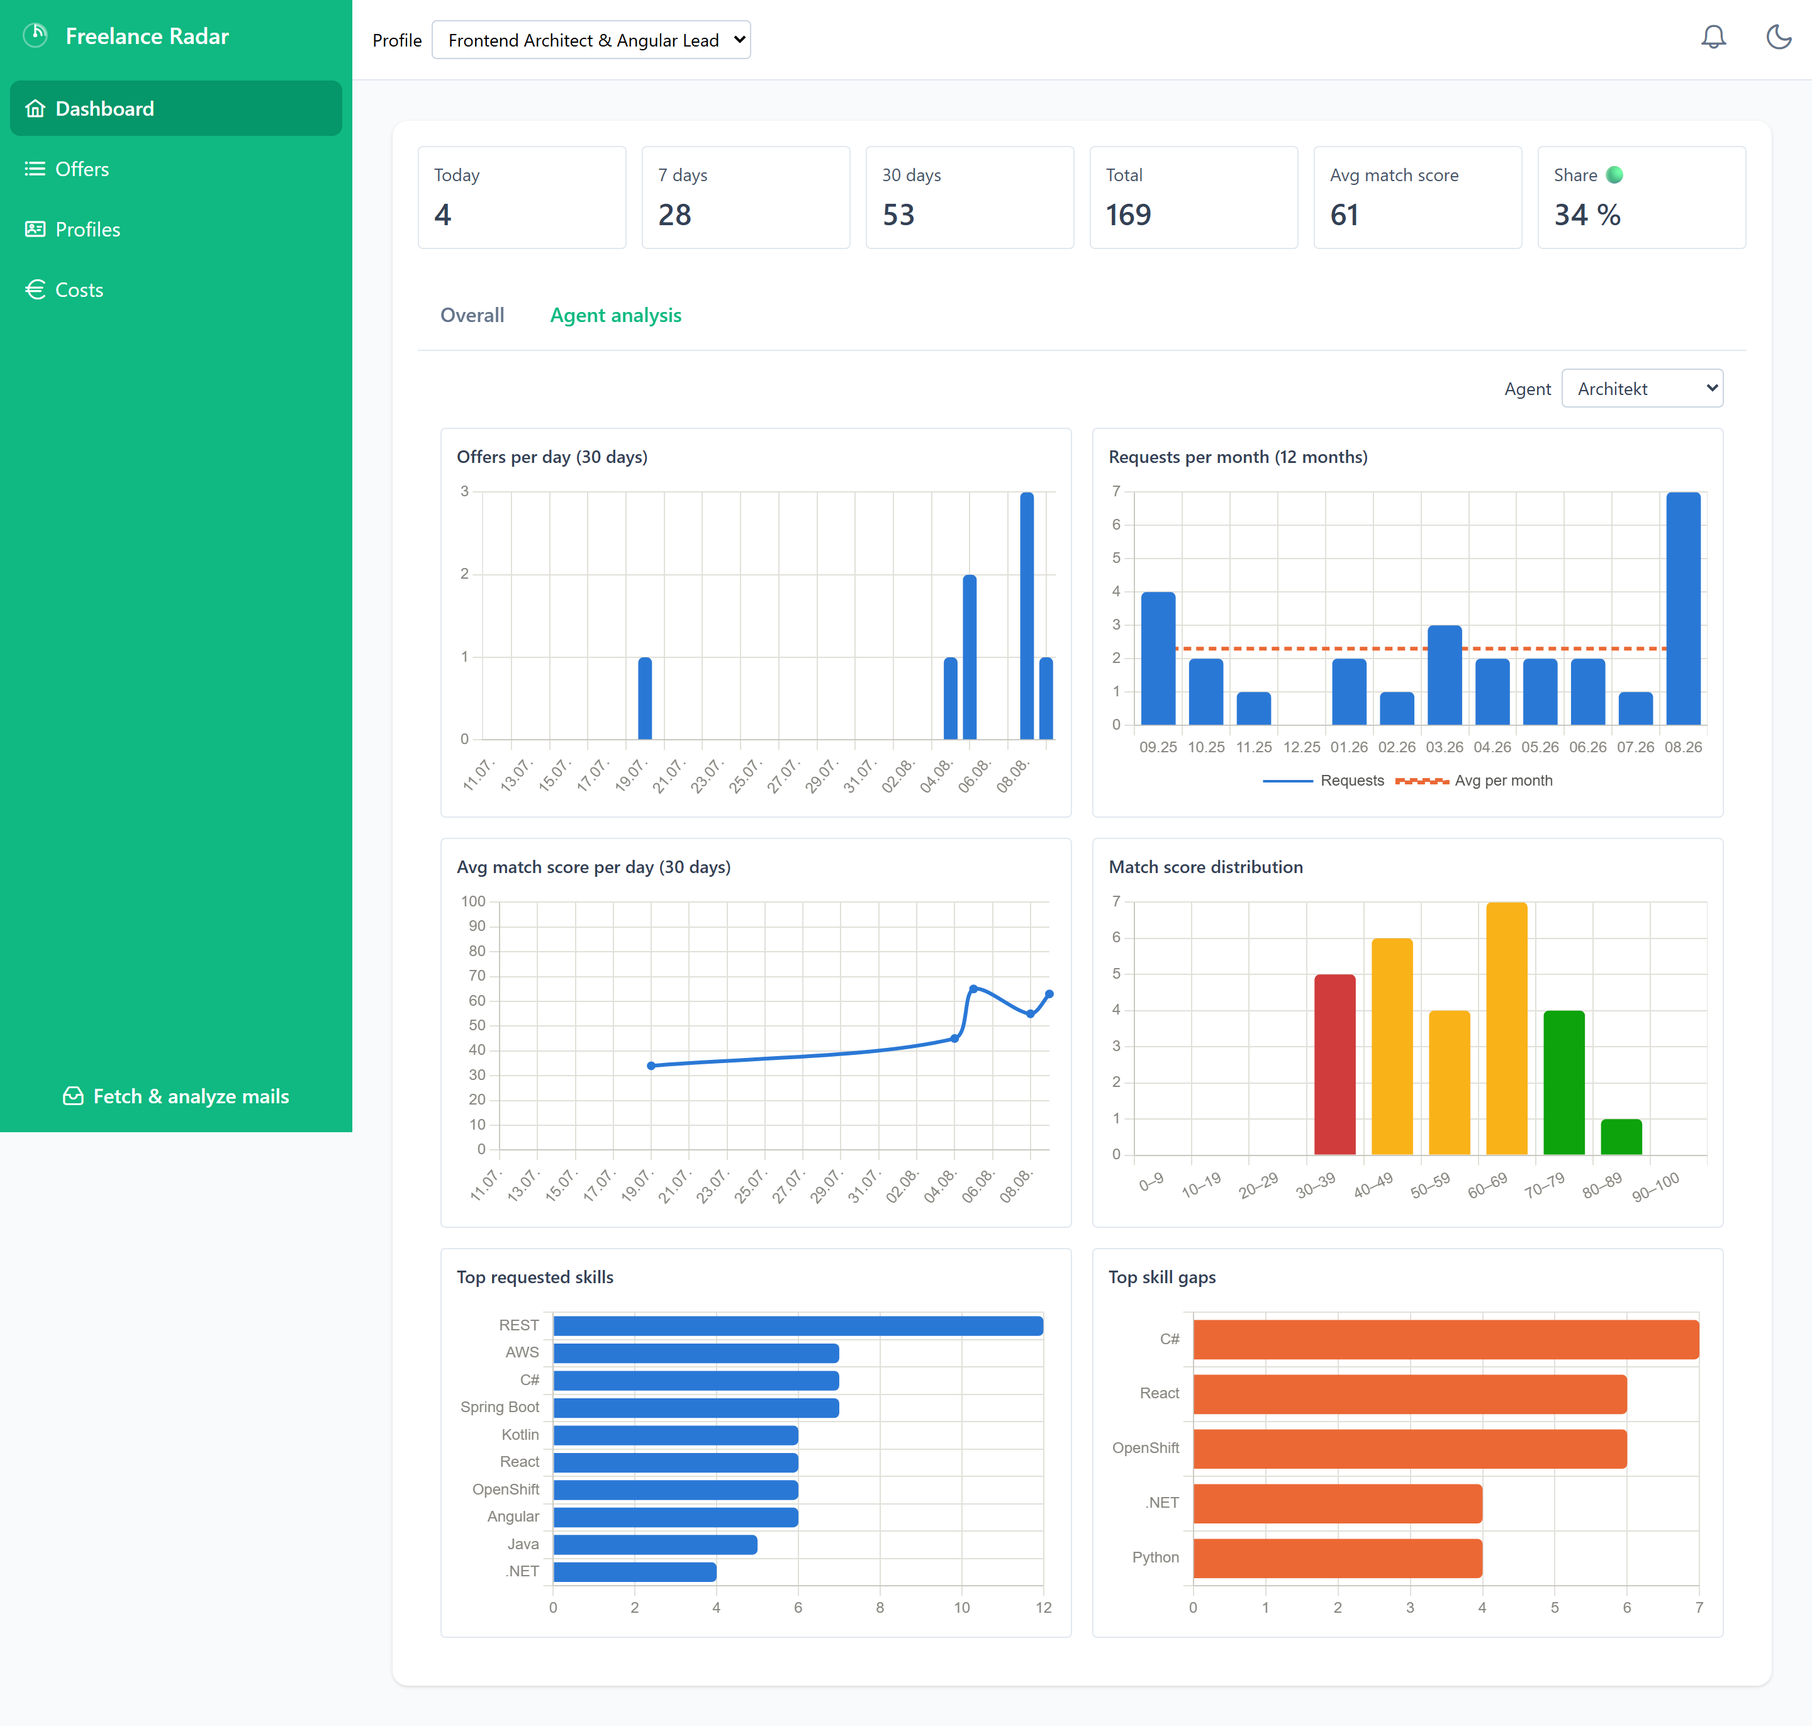
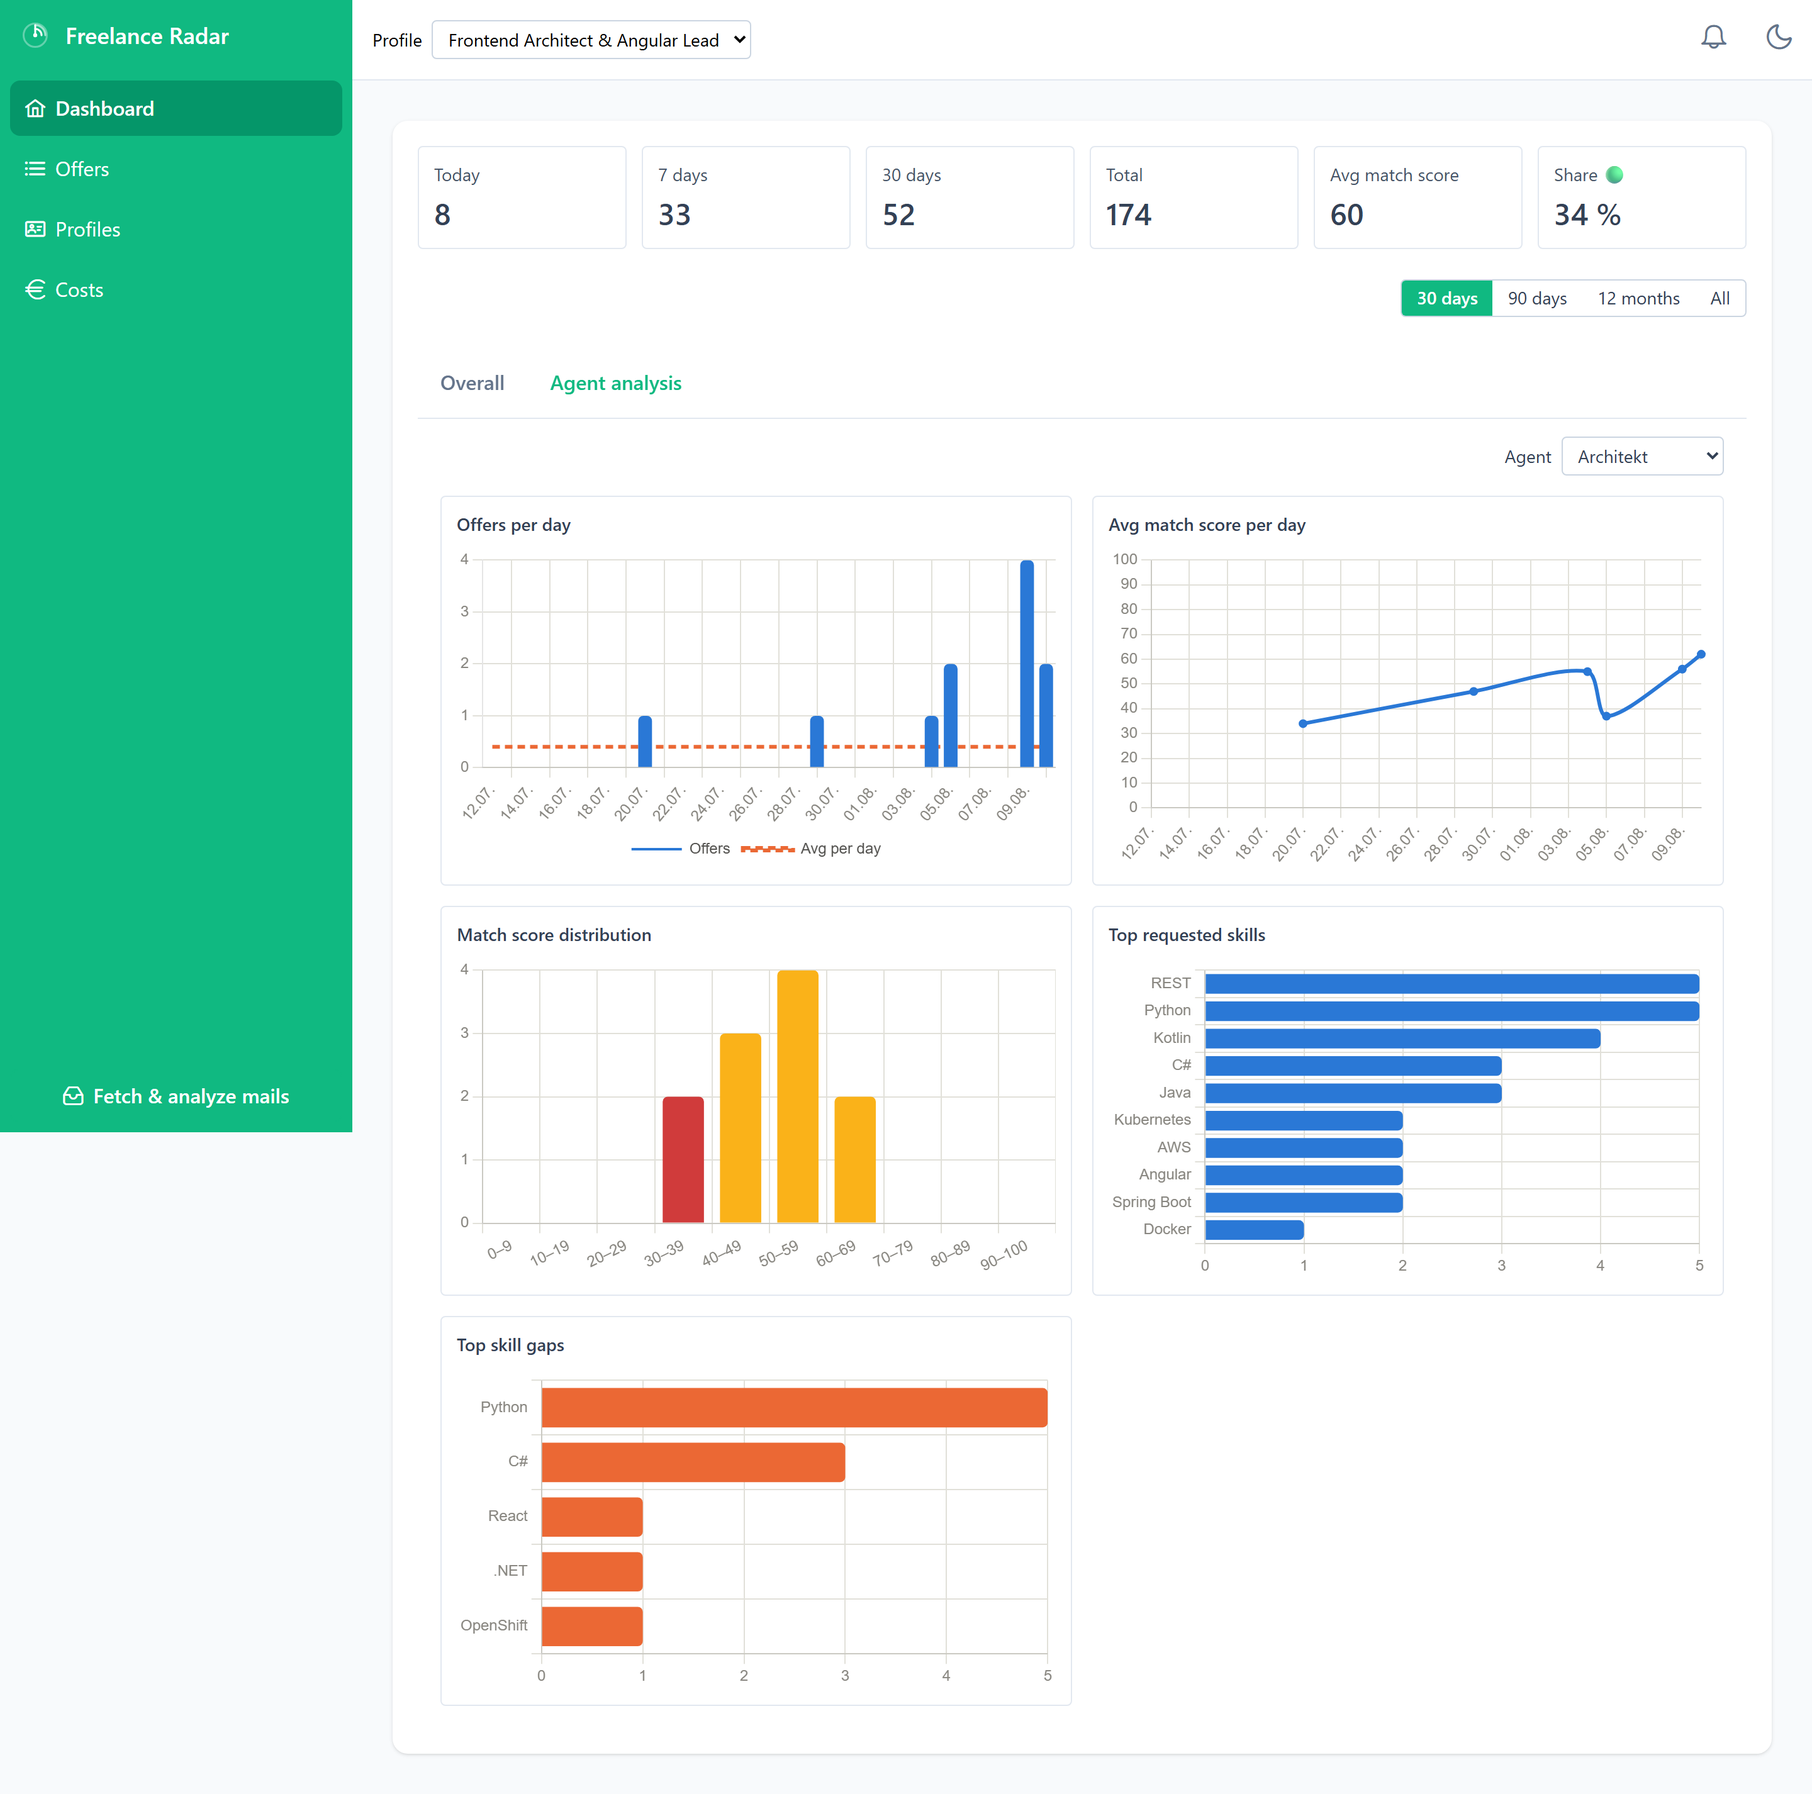
docs: cover the new dashboard in the readme and screenshots
Die Features-Liste beschrieb sechs Charts je Tab und keinen
Zeitraum-Umschalter. Sie nennt jetzt beides, dazu die Marktkennzahlen und
die Regel, dass jede Kennzahl ihre Fallzahl trägt.

Der Screenshot-Generator kannte die neuen Felder nicht — die drei neuen
Charts wären im README leer geblieben. Er würfelt sie jetzt wie die
echten Daten: Laufzeit fast immer, Budget nur bei jedem zehnten Projekt
und dann überwiegend als Stunden-, gelegentlich als Tagessatz. Der
Tagessatz gehört dazu, weil er zeigt, dass die Satz-Spalte ihn aussortiert.

Die Kostenangabe stand noch auf dem Stand vor dem Abruf der
Detailseiten: gemessen an den Läufen sind es jetzt rund 1.200 statt 750
Input-Tokens je Angebot, seit die Projektbeschreibung bewertet wird.

diff --git a/frontend/e2e/offers.spec.ts b/frontend/e2e/offers.spec.ts
@@ -15,11 +15,11 @@ const OFFER = {
   country: 'AT',
   remote: 'REMOTE',
   startDate: '09/2026',
-  budgetEur: null,
-  budgetKind: null,
-  durationMonths: null,
-  utilizationPercent: null,
-  remotePercent: null,
+  budgetEur: 85,
+  budgetKind: 'HOURLY',
+  durationMonths: 6,
+  utilizationPercent: 100,
+  remotePercent: 80,
   startMonth: null,
   startImmediate: false,
   projectUrl: 'https://www.freelancermap.de/nproj/3026991.html',
@@ -119,7 +119,7 @@ test.describe('Offers dashboard e2e', () => {
     await expect(page.getByText('1 new offers imported from 1 mails · 1 analyzed · 2 detail pages fetched')).toBeVisible();
   });
 
-  test('shows the kpi tiles and splits the ten charts across both tabs', async ({ page }) => {
+  test('shows the kpi tiles and splits the twelve charts across both tabs', async ({ page }) => {
     await page.getByRole('button', { name: 'Fetch & analyze mails' }).click();
 
     // exact — „Avg match score per day/agent" sind seither auch Chart-Titel.
@@ -129,8 +129,12 @@ test.describe('Offers dashboard e2e', () => {
     // Gesamt zählt ohne Zeitfenster; die Kopie des zweiten Agenten bleibt außen vor.
     await expect(page.locator('dl > div').filter({ hasText: 'Total' })).toContainText('1');
 
-    // Die KPI-Kacheln stehen über beiden Tabs; die 5 globalen Charts liegen im Auftakt-Tab.
-    await expect(page.getByRole('tabpanel').locator('canvas')).toHaveCount(5);
+    // Die KPI-Kacheln stehen über beiden Tabs; die 7 globalen Charts liegen im Auftakt-Tab.
+    await expect(page.getByRole('tabpanel').locator('canvas')).toHaveCount(7);
+    // Die Marktkennzahlen nennen ihre Fallzahl — hier das eine analysierte Angebot.
+    const rateStat = page.locator('app-market-stats div').filter({ hasText: 'Avg hourly rate' });
+    await expect(rateStat).toContainText('85 €/h');
+    await expect(rateStat).toContainText('from 1 offers');
 
     await page.getByRole('tab', { name: 'Agent analysis' }).click();
 

diff --git a/docs/superpowers/specs/2026-08-10-detaildaten-sichtbar-design.md b/docs/superpowers/specs/2026-08-10-detaildaten-sichtbar-design.md
@@ -1,0 +1,133 @@
+# Detaildaten sichtbar machen
+
+Design-Spec, 2026-08-10. Folge-PR zu
+[`2026-08-10-projekt-detailseiten-design.md`](2026-08-10-projekt-detailseiten-design.md).
+
+## Ziel
+
+Die Projektseiten sind abgerufen, die Daten liegen vollständig in der Datenbank — sichtbar
+ist davon nichts. `OfferResponse` liefert die neuen Felder nicht aus; die Angebotstabelle
+zeigt stattdessen die alten Textspalten `rate` und `duration`, die zu 100 % leer sind.
+Sichtbar ist also das Feld ohne Daten, unsichtbar das Feld mit Daten.
+
+Dieser PR liefert die Felder aus, ersetzt die toten Spalten und wertet aus, was die Datenlage
+trägt.
+
+## Datenlage (Stand 2026-08-10, 431 primäre Angebote)
+
+| Feld          | Abdeckung | Konsequenz für die Darstellung                        |
+| ------------- | --------- | ------------------------------------------------------ |
+| Beschreibung  | 428       | Ø 2.325 Zeichen — siehe „Was draußen bleibt"           |
+| Remote-Anteil | 388       | trägt eine eigene Verteilung                           |
+| Laufzeit      | 326       | Ø 8,8 Monate, Median 6 — trägt eine Verteilung         |
+| Auslastung    | 257       | reicht für den Aufklapper, nicht für ein eigenes Chart |
+| Budget gesamt | 44        |                                                        |
+| davon Stundensatz | **31** | Ø 83,35 € — **nur mit Fallzahl** darstellbar          |
+
+## Entscheidungen
+
+| Frage                        | Entscheidung                                                          |
+| ---------------------------- | --------------------------------------------------------------------- |
+| Ø Stundensatz als Zeitreihe? | **Nein.** 31 Werte auf 12 Monate hieße 2–3 Werte je Monat — die Kurve zeigte Rauschen, nicht Markt. Stattdessen Verteilung plus Kennzahl mit Fallzahl. |
+| Fallzahl                     | Steht an jeder Kennzahl und in jedem Chart-Titel, der auf dünner Basis steht. |
+| Tote Spalten `rate`/`duration` | Fallen in diesem PR — samt der Regex-Zweige im `ParserService`.      |
+| Beschreibung ausliefern      | **Nein**, siehe unten.                                                |
+| Zeitraum                     | Alle neuen Auswertungen hängen wie alle anderen an `withinRange`.     |
+
+## Backend
+
+`OfferResponse` bekommt: `budgetEur`, `budgetKind`, `durationMonths`, `utilizationPercent`,
+`remotePercent`, `startMonth`, `startImmediate`.
+
+Migration `V9` entfernt die Spalten `rate` und `duration` von `offers`; die zugehörigen
+Regex-Zweige in `ParserService` und die Felder in `Offer`/`OfferResponse` gehen mit. Belegt
+ist ihre Nutzlosigkeit über 431 Angebote: kein einziger Treffer.
+
+`start_date` (Rohtext aus der Mail, 428/431 gefüllt) **bleibt** — sie ist die einzige
+Startangabe für Angebote, deren Detailseite kein Startdatum nennt.
+
+### Was draußen bleibt: die Beschreibung
+
+Die 428 Beschreibungen messen im Schnitt 2.325 Zeichen. Über die Liste ausgeliefert wären das
+rund **1 MB zusätzlich** bei jedem Laden von `/api/offers` — für ein Feld, das nur im
+aufgeklappten Detail einer einzelnen Zeile sichtbar wäre. Der Aufklapper verlinkt bereits auf
+die Projektseite.
+
+Wenn die Beschreibung in die Oberfläche soll, dann über einen eigenen Endpunkt
+`GET /api/offers/{id}`, den der Aufklapper bei Bedarf nachlädt — das ist ein eigener,
+kleiner PR und keine Erweiterung dieses hier.
+
+## Frontend — Angebotstabelle
+
+**Zwei neue Spalten**, sortierbar, ohne Filter (Filter brauchen Wertebereiche, die bei
+9 % Abdeckung wenig hergeben):
+
+| Spalte | Inhalt                                                                 |
+| ------ | ---------------------------------------------------------------------- |
+| Satz   | `budgetEur` **nur wenn `budgetKind === 'HOURLY'`**, formatiert „83 €/h"; sonst „—" |
+| Dauer  | `durationMonths` als „6 Mon."; sonst „—"                                |
+
+Ein Tagessatz oder Gesamtbudget erscheint **nicht** in der Satz-Spalte — dort stünde sonst
+„649 €/h". Beide Werte sind im Aufklapper sichtbar, dort mit ihrer Einordnung.
+
+**Aufklapper**: die Zeilen `rate` und `duration` (immer leer) weichen den strukturierten
+Angaben — Budget mit Einordnung („649 € pro Tag", „750.000 € gesamt"), Laufzeit, Auslastung,
+Remote-Anteil in Prozent und Start („ab sofort" bzw. Monat, sonst der Rohtext aus der Mail).
+
+## Frontend — Dashboard
+
+Zwei neue Charts in der Gesamtauswertung, beide dem gewählten Zeitraum folgend:
+
+1. **Laufzeit-Verteilung** — Balken über die Klassen **bis 3**, 4–6, 7–12, über 12 Monate.
+   326 Werte tragen das. Die erste Klasse ist nach unten offen, damit kein Wert lautlos
+   herausfällt.
+2. **Stundensatz-Verteilung** — Balken über die Klassen **unter 60**, 60–79, 80–99, 100–119,
+   **ab 120** €. Nur `HOURLY`, also alles zwischen 0 und 250 € — beide Randklassen sind offen.
+   Der Titel nennt die Fallzahl.
+
+Das bestehende **Remote-Donut wird ersetzt** durch eine Verteilung über den Prozentwert
+(0 %, 1–49 %, 50–99 %, 100 %) — dieselbe Aussage, aber feiner und aus 388 statt aus einer
+Dreistufung. Die Gesamtauswertung zeigt damit sieben Charts.
+
+Zusätzlich eine Zeile **Marktkennzahlen** über den Charts — **nur in der Gesamtauswertung**,
+nicht im Agenten-Tab, wo die Fallzahlen je Agent noch dünner wären. Sie zeigt Ø Stundensatz,
+Ø Laufzeit und Ø Remote-Anteil, jeweils mit Fallzahl in der Form „83 €/h · 31 Angebote". Die
+Zeile folgt dem Zeitraum und steht damit bewusst getrennt von der KPI-Kachel-Zeile, die feste
+Fenster trägt. Fehlt eine Kennzahl mangels Daten, steht dort „—" und keine 0.
+
+**Zahlenformate:** Stundensatz ganzzahlig gerundet („83 €/h"), Laufzeit mit einer
+Nachkommastelle („8,8 Monate"), Remote-Anteil ganzzahlig („74 %").
+
+## Aggregationen
+
+Neu in `offers/util/offer-stats.ts`, alle auf der bereits zeitgefilterten Liste:
+
+- drei Extraktoren, die je Angebot den Wert herausziehen und Fehlendes überspringen:
+  `hourlyRates(offers)` (nur `budgetKind === 'HOURLY'`), `durations(offers)`,
+  `remotePercents(offers)` — alle `number[]`
+- `averageWithCount(values): { average: number | null; count: number }` — Kennzahl samt
+  Fallzahl, `null` bei leerer Liste (nicht `0`); die drei Kennzahlen der Marktzeile bauen
+  darauf auf
+- `durationBuckets(offers)`, `rateBuckets(offers)`, `remotePercentBuckets(offers)` — je
+  `NamedCount[]`
+
+Die Klassengrenzen liegen als Konstanten neben den Funktionen — ein Ort, getestet.
+
+## Tests
+
+- **`offer-stats.spec.ts`**: Klassengrenzen (ein Wert genau auf der Grenze je Klasse),
+  `averageWithCount` liefert `null` statt `0` bei leerer Liste, `hourlyRates` ignoriert
+  `DAILY`/`TOTAL`.
+- **`offer-table.spec.ts`**: Die Satz-Spalte zeigt einen Stundensatz, aber „—" bei `DAILY`.
+- **Dashboard-Specs**: die neuen Charts bekommen die zeitgefilterten Daten; die
+  Kennzahl-Zeile nennt die Fallzahl.
+- **`CollectControllerTest`**: `/api/offers` liefert die neuen Felder und **nicht** mehr
+  `rate`/`duration`.
+- **e2e**: Chart-Anzahl je Tab, Satz-Spalte sichtbar.
+
+## Nicht Teil dieser Änderung
+
+- Beschreibung in der Oberfläche (eigener Endpunkt, eigener PR)
+- Ø Stundensatz als Zeitreihe — erst wenn die Fallzahl es trägt
+- Umrechnung von Tagessätzen in Stundensätze: eine Annahme (÷ 8) auf einer Heuristik
+  (`budget_kind`) wäre eine Zahl, die niemand mehr hinterfragen kann

diff --git a/README.md b/README.md
@@ -15,7 +15,7 @@ Ausgelöst per Knopfdruck — Tokens fließen nur, wenn ein Lauf bewusst gestart
 ![Java](https://img.shields.io/badge/Java-25-orange.svg)
 ![PostgreSQL](https://img.shields.io/badge/PostgreSQL-18-336791.svg)
 
-<img src="docs/screenshots/dashboard.png" alt="Dashboard mit KPI-Kacheln und den sechs Charts der Gesamtauswertung" width="900">
+<img src="docs/screenshots/dashboard.png" alt="Dashboard mit KPI-Kacheln, Marktkennzahlen und den sieben Charts der Gesamtauswertung" width="900">
 
 </div>
 
@@ -37,7 +37,8 @@ Die Analyse läuft über die Claude API und kostet Geld. Deshalb ist Sparsamkeit
 Designprinzip und kein Nachgedanke: ein Batch-Request statt einer Anfrage pro Angebot,
 nur unbewertete Angebote, gekürzte Mail-Bodies, ein Kostendeckel pro Lauf — und jede
 teure Aktion zeigt ihre geschätzten Kosten _vorher_ an. Ein voller Lauf über 25 Angebote
-liegt bei rund **4 Cent**.
+liegt bei wenigen Cent — gemessen rund **1.200 Input-Tokens je Angebot**, seit die
+Projektbeschreibung statt der Teaser-Mail bewertet wird (davor waren es ~750).
 
 ## Features
 
@@ -48,12 +49,19 @@ liegt bei rund **4 Cent**.
   Tokens und zählt in Auswertungen, die Kopien erscheinen als Badge „spread 3×".
 - **Bewertung gegen mehrere Profile** — Ergebnisse liegen pro Profil nebeneinander, der
   Umschalter in der Topbar wechselt die komplette Sicht (Tabelle, KPIs, Charts).
+- **Wählbarer Zeitraum** — ein Umschalter (30 Tage / 90 Tage / 12 Monate / alles) über den
+  Tabs schneidet **alle** Auswertungen zu; die Zeitreihen ziehen ihre Auflösung mit
+  (Tage → Wochen → Monate). Die Auswahl überlebt den Reload.
 - **Dashboard in zwei Tabs** — die KPI-Zeile (heute, 7 Tage, 30 Tage, gesamt, Ø Match-Score,
-  🟢-Anteil) steht über beiden. _Gesamtauswertung_ zeigt die Marktsicht: Angebote pro Tag,
-  Anfragen pro Monat über 12 Monate mit Durchschnittslinie, Trigger und Ø Score je
-  Suchagent, Remote-Anteil, angefragte Berufsprofile. _Agenten-Analyse_ zeigt dieselben
-  Zeitreihen plus Score-Trend, Score-Histogramm mit Ampelfarben, Top-Skills und
-  Top-Skill-Gaps — alles gefiltert auf einen wählbaren Suchagenten.
+  🟢-Anteil) steht mit festen Fenstern über beiden. _Gesamtauswertung_ zeigt die Marktsicht:
+  Marktkennzahlen (Ø Stundensatz, Ø Laufzeit, Ø Remote-Anteil) und sieben Charts — Volumen
+  mit Durchschnittslinie, Trigger und Ø Score je Suchagent, Remote-Anteil, Laufzeit- und
+  Stundensatz-Verteilung, angefragte Berufsprofile. _Agenten-Analyse_ zeigt Volumen und
+  Score-Trend plus Score-Histogramm mit Ampelfarben, Top-Skills und Top-Skill-Gaps — alles
+  gefiltert auf einen wählbaren Suchagenten.
+- **Kennzahlen nennen ihre Fallzahl** — „Ø 83 €/h aus 31 Angeboten". Nur rund jedes zehnte
+  Projekt beziffert überhaupt ein Budget; ein nackter Durchschnitt würde eine Marktaussage
+  vortäuschen, die die Datenlage nicht hergibt.
 - **Geclusterte Berufsprofile** — die Analyse liefert Rollen als Freitext, was in der Praxis
   auf ~145 Schreibweisen für 173 Angebote hinausläuft („Full-Stack Software Engineer",
   „Java-Fullstack-Entwickler", …). Schlüsselwort-Regeln fassen sie zu Clustern wie Fullstack,
@@ -69,7 +77,7 @@ liegt bei rund **4 Cent**.
 <table>
 <tr>
 <td colspan="2">
-<img src="docs/screenshots/dashboard-agents.png" alt="Dashboard, Tab Agenten-Analyse mit sechs auf einen Suchagenten gefilterten Charts">
+<img src="docs/screenshots/dashboard-agents.png" alt="Dashboard, Tab Agenten-Analyse mit fünf auf einen Suchagenten gefilterten Charts">
 <p align="center"><em>Agenten-Analyse — dieselben Auswertungen, gefiltert auf einen wählbaren Suchagenten</em></p>
 </td>
 </tr>
@@ -123,6 +131,9 @@ und ohne echte Angebotsdaten.
 │                   Startdatum-Merker                         │
 │  ParserService    Betreff/Body → Projektfelder, Agent-Name  │
 │  CollectService   Message-ID-Dedup + Cross-Agent-Gruppen    │
+│  ProjectPageService  holt die verlinkte Projektseite:       │
+│                   Stundensatz, Laufzeit, Auslastung,        │
+│                   Remote-Anteil, Beschreibung (gedrosselt)  │
 │  AnalysisService  Spring AI 2.0 → claude-haiku-4-5,         │
 │                   Batch-Prompt, Kostendeckel, Token-Log     │
 └───────────────────────────┬─────────────────────────────────┘
